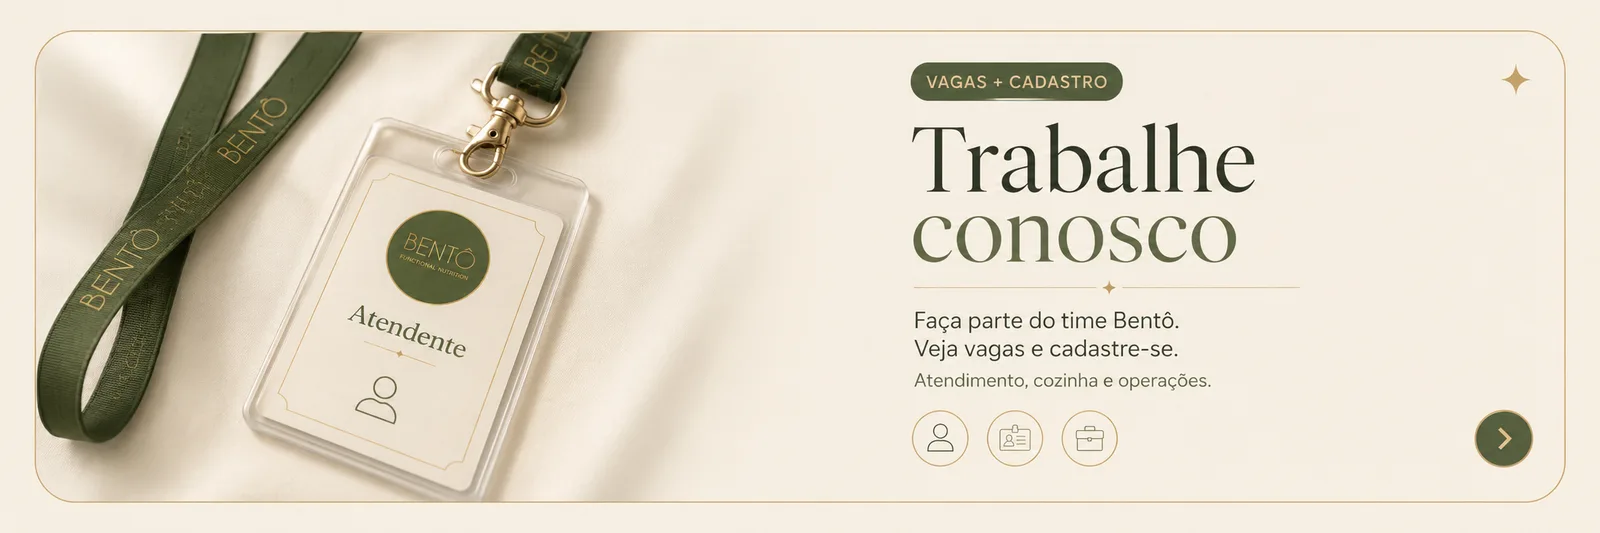
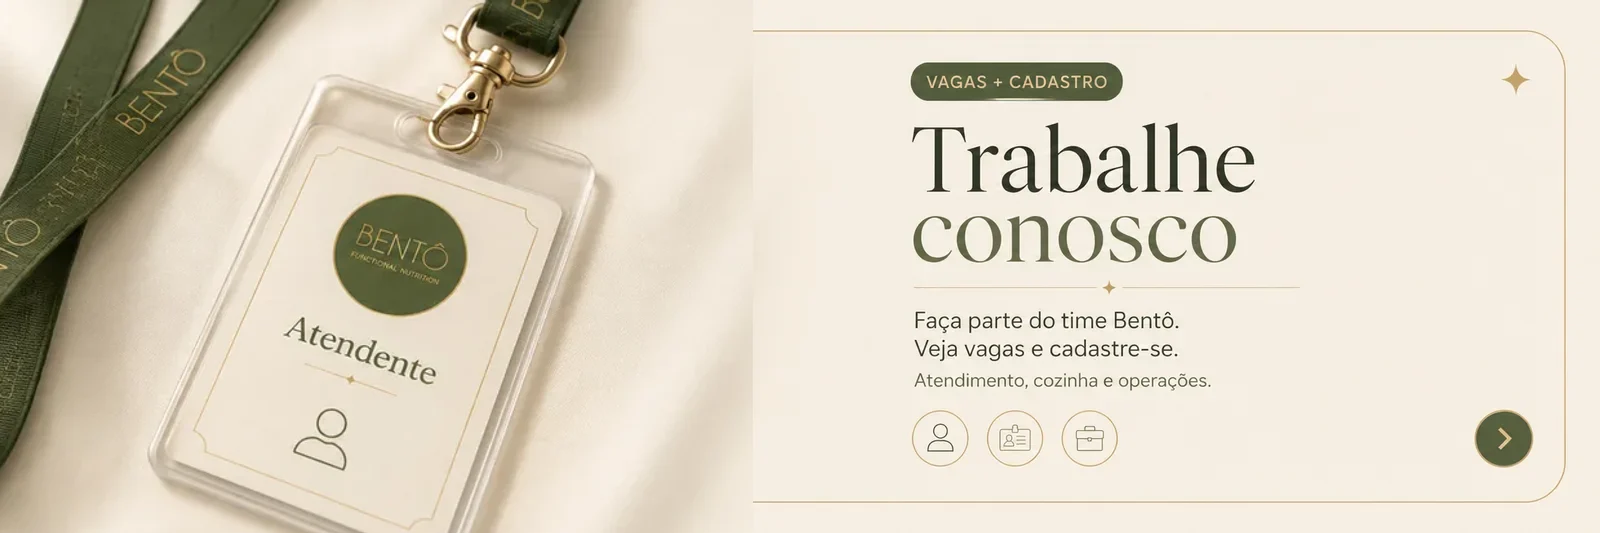
Card "Seja creator Bentô" + padrão dos cards: imagem até a borda (#209)
Nono card da home, no fim da fila, abrindo o cadastro de creators no totem em
aba nova — mesmo comportamento do Meu Studio. A arte foi composta aqui: foto
gerada na espinha de estilo da marca e painel em SVG com as fontes da casa,
para o texto sair nítido. Registrado nos seis lugares da lista canônica, então
já é destacável e reordenável pelo painel.

Junto, o padrão dos cards. Cada card tinha duas molduras claras em volta da
foto: a borda creme do card e a moldura desenhada dentro da própria arte, que
variava de 13 a 89 px. Agora a borda do card de arte cheia é o mesmo dourado
das artes — uma linha só — e a imagem recebe scale(1.06), aparado pelo overflow
do card, comendo a moldura sem encostar no conteúdo do painel. Opacidade volta
a 100%. Eventos e carreira, cujas margens eram grandes demais para o corte
uniforme, tiveram a foto reenquadrada até sangrar nas bordas.

Claude-Session: https://claude.ai/code/session_013gkTmecifRiHBwwZaPfzgb

Changed region(s): [[0.0, 0.0, 0.4688, 1.0]]

diff --git a/src/App.jsx b/src/App.jsx
@@ -144,11 +144,20 @@ function PhotoBanner({as="button",href,target,onClick,img,imgPos,selo,title,sub,
   // Translucidez iOS sutil: o card deixa o filme de fundo "respirar" pelas
   // bordas e pela arte (92%) sem lavar as artes oficiais dos banners.
   // "gap" maior na home abre o vão entre cards para o filme 3D aparecer na rolagem.
-  const common={width:"100%",display:"flex",alignItems:"stretch",textAlign:"left",background:"rgba(255,253,247,.72)",border:"1px solid rgba(228,220,201,.78)",borderRadius:18,overflow:"hidden",cursor:"pointer",marginTop:gap||14,boxShadow:"0 14px 34px -26px rgba(35,38,25,.55)",padding:0,minHeight:full?0:112,textDecoration:"none"};
+  // A borda do card era creme (rgba(228,220,201,.78)) e cada arte ainda trazia a
+  // sua própria moldura creme por dentro — davam duas molduras claras em volta da
+  // foto. No card de arte cheia, a borda passa a ser o mesmo filete dourado das
+  // artes: uma linha só, contínua, com a imagem chegando até ela.
+  const common={width:"100%",display:"flex",alignItems:"stretch",textAlign:"left",background:"rgba(255,253,247,.72)",border:`1px solid ${full?"rgba(201,162,74,.5)":"rgba(228,220,201,.78)"}`,borderRadius:18,overflow:"hidden",cursor:"pointer",marginTop:gap||14,boxShadow:"0 14px 34px -26px rgba(35,38,25,.55)",padding:0,minHeight:full?0:112,textDecoration:"none"};
   const d=BANNER_DIMS[img];
   // Modo "full": a própria arte já traz selo, título, subtítulo e seta — imagem cobre o card todo.
+  // O scale(1.06) come a moldura creme que cada arte traz desenhada (entre 13 e
+  // 89 px, medidos arte a arte) e o `overflow:hidden` do card apara o excesso.
+  // 6% ≈ 48 px de cada lado em 1600 px: tira a moldura sem encostar no conteúdo
+  // do painel — a seta mais à direita ainda tem ~82 px de folga. E opacidade
+  // cheia, para o creme do card não lavar a foto por baixo.
   const inner=full?(
-    <img src={img} alt={alt||title||""} width={d&&d[0]} height={d&&d[1]} loading={priority?"eager":"lazy"} fetchpriority={priority?"high":undefined} decoding={priority?"auto":"async"} onError={onImgErr} style={{display:"block",width:"100%",height:"auto",opacity:.92}}/>
+    <img src={img} alt={alt||title||""} width={d&&d[0]} height={d&&d[1]} loading={priority?"eager":"lazy"} fetchpriority={priority?"high":undefined} decoding={priority?"auto":"async"} onError={onImgErr} style={{display:"block",width:"100%",height:"auto",transform:"scale(1.06)"}}/>
   ):(
     <>
       <div style={{flexBasis:"40%",maxWidth:"40%",flexShrink:0,alignSelf:"stretch",position:"relative",overflow:"hidden"}}>
@@ -233,7 +242,7 @@ function lojasComConfig(cfg){
   });
 }
 
-const ORDEM_PADRAO=["eventos","studio","bytes","tabelas","cardapio","parceiro","conheca","carreira"];
+const ORDEM_PADRAO=["eventos","studio","bytes","tabelas","cardapio","parceiro","conheca","carreira","creators"];
 // ordem dos banners com o destaque do painel (compartilhado pelas duas homes)
 function useDestaqueOrdem(){
   const[destaque,setDestaque]=useState(()=>{try{const v=localStorage.getItem("bento:destaque");return ORDEM_PADRAO.includes(v)?v:DESTAQUE_PADRAO}catch{return DESTAQUE_PADRAO}});
@@ -506,6 +515,11 @@ function bannersDe({onTabelas,onPitch,onParceria,onDelivery,onEventos,onVagas}){
       alt:"Conheça a Bentô e FAQ — nossa proposta, sabores, diferenciais e perguntas frequentes"},
     carreira:{img:"/banners/carreira.webp",action:onVagas,tkName:"Vagas · Estamos contratando",
       alt:"Trabalhe conosco — faça parte do time Bentô, veja vagas e cadastre-se"},
+    // Comunidade Creator: a candidatura, a análise e o extrato moram no totem —
+    // aqui é só a porta de entrada, como o Meu Studio.
+    creators:{img:"/banners/creators.webp",as:"a",href:"https://totem.bentogelateria.com/creators/cadastro",target:"_blank",
+      tkName:"Creators · Cadastro",
+      alt:"Seja creator Bentô — candidate-se à comunidade de creators: crédito na loja, campanhas e extrato transparente"},
   };
 }
 

diff --git a/public/painel.html b/public/painel.html
@@ -1008,7 +1008,7 @@ function renderVagas(d){
 }
 
 // ---- ⭐ Destaque da home: escolhe qual banner abre o site (KV via /api/destaque) ----
-var DST_BANNERS = [["eventos","🎉 Eventos"],["studio","✨ Meu Studio"],["bytes","🍨 BentôBytes"],["tabelas","🔬 Tabelas"],["cardapio","🛵 Entrega própria"],["parceiro","🤝 Parceiro"],["conheca","💚 Conheça"],["carreira","💼 Carreira"]];
+var DST_BANNERS = [["eventos","🎉 Eventos"],["studio","✨ Meu Studio"],["bytes","🍨 BentôBytes"],["tabelas","🔬 Tabelas"],["cardapio","🛵 Entrega própria"],["parceiro","🤝 Parceiro"],["conheca","💚 Conheça"],["carreira","💼 Carreira"],["creators","📣 Creators"]];
 var _dstAtual = null;
 function drawDestaque(){
   var el = $("#dstChips"); if(!el) return;
@@ -1230,7 +1230,7 @@ function renderClube(d){
 var SC_LOJAS = [["praia-do-canto","Praia do Canto"],["jardim-camburi","Jardim Camburi"]];
 var SC_DIAS  = [["0","Dom"],["1","Seg"],["2","Ter"],["3","Qua"],["4","Qui"],["5","Sex"],["6","Sáb"]];
 var SC_BANNERS = [["eventos","🎉 Eventos"],["studio","✨ Meu Studio"],["bytes","🍨 BentôBytes"],["tabelas","🔬 Tabelas"],
-                  ["cardapio","🛵 Entrega própria"],["parceiro","🤝 Parceiro"],["conheca","💚 Conheça"],["carreira","💼 Carreira"]];
+                  ["cardapio","🛵 Entrega própria"],["parceiro","🤝 Parceiro"],["conheca","💚 Conheça"],["carreira","💼 Carreira"],["creators","📣 Creators"]];
 var SC_PUSH = [["entrega","🛵 Entrega grátis"],["lancamento","✨ Lançamento"],["nenhum","⛔ Nenhum"]];
 var SC_VISUAL = [["veu","Véu sobre o filme",0,1,0.38],["vidro","Vidro dos cards",0,1,0.62],["vinheta","Vinheta das bordas",0,1,0.16]];
 var _sc = {};      // config atual em edição

diff --git a/index.html b/index.html
@@ -59,7 +59,7 @@
     <script>
       try {
         // whitelist alinhada com ORDEM_PADRAO (src/App.jsx) e BANNERS_VALIDOS (api/destaque.js)
-        var _ok = { eventos: 1, studio: 1, bytes: 1, tabelas: 1, cardapio: 1, parceiro: 1, conheca: 1, carreira: 1 };
+        var _ok = { eventos: 1, studio: 1, bytes: 1, tabelas: 1, cardapio: 1, parceiro: 1, conheca: 1, carreira: 1, creators: 1 };
         var _dst = localStorage.getItem("bento:destaque");
         if (!_ok[_dst]) _dst = "eventos";
         var _pl = document.createElement("link");

diff --git a/api/destaque.js b/api/destaque.js
@@ -18,7 +18,7 @@ const { url: KV_URL, token: KV_TOKEN } = findKV();
 const PANEL_KEY = process.env.PANEL_KEY;
 const KEY = "home:destaque";
 // mesma lista de ORDEM_PADRAO em src/App.jsx — manter em sincronia ao criar banner novo
-export const BANNERS_VALIDOS = ["eventos", "studio", "bytes", "tabelas", "cardapio", "parceiro", "conheca", "carreira"];
+export const BANNERS_VALIDOS = ["eventos", "studio", "bytes", "tabelas", "cardapio", "parceiro", "conheca", "carreira", "creators"];
 const PADRAO = "eventos";
 
 async function kv(args) {

diff --git a/api/site-config.js b/api/site-config.js
@@ -30,7 +30,7 @@ const KEY = "site:config";
 
 // Mesma lista de ORDEM_PADRAO em src/App.jsx e de BANNERS_VALIDOS em
 // api/destaque.js — manter em sincronia ao criar banner novo.
-const BANNERS = ["eventos", "studio", "bytes", "tabelas", "cardapio", "parceiro", "conheca", "carreira"];
+const BANNERS = ["eventos", "studio", "bytes", "tabelas", "cardapio", "parceiro", "conheca", "carreira", "creators"];
 const PUSH_TIPOS = ["nenhum", "entrega", "lancamento"];
 
 async function kv(args) {
